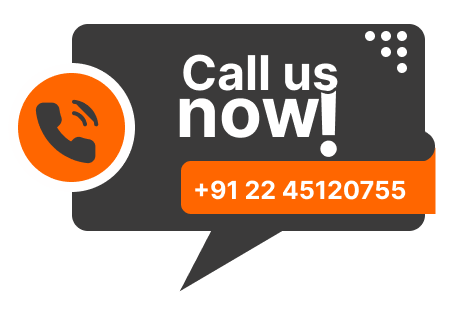
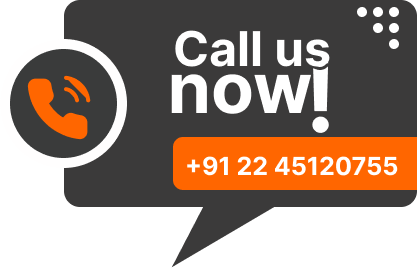
made minor changes

diff --git a/Frontend/src/pages/Faqs.jsx b/Frontend/src/pages/Faqs.jsx
@@ -1,8 +1,14 @@
 import React, { useState } from 'react';
 import { FaChevronDown } from 'react-icons/fa';
 
-const FAQSection = () => {
+const Faqs = () => {
+  const [openCategory, setOpenCategory] = useState(null);
   const [openQuestion, setOpenQuestion] = useState(null);
+
+  const toggleCategory = (category) => {
+    setOpenCategory(openCategory === category ? null : category);
+    setOpenQuestion(null); // Close questions when changing category
+  };
 
   const toggleQuestion = (index) => {
     setOpenQuestion(openQuestion === index ? null : index);
@@ -33,94 +39,53 @@ const FAQSection = () => {
     <div className="max-w-5xl mx-auto p-8 bg-gray-50">
       <h2 className="text-4xl font-bold text-center mb-12 text-orange-600">Frequently Asked Questions</h2>
 
-      {/* Finance Section */}
-      <div>
-        <h3 className="text-3xl font-semibold mb-6 text-gray-700 border-b-4 border-orange-500 pb-2">Finance</h3>
-        {faqData.finance.map((item, index) => (
-          <div key={index} className="mb-6">
-            <button
-              className="w-full flex justify-between items-center text-left text-lg font-medium text-gray-800 p-4 bg-white hover:bg-orange-100 rounded-lg shadow-md focus:outline-none transition-all duration-300 ease-in-out transform hover:scale-105"
-              onClick={() => toggleQuestion(`finance-${index}`)}
-            >
-              {item.question}
-              <FaChevronDown
-                className={`ml-2 transform transition-transform duration-300 ${
-                  openQuestion === `finance-${index}` ? 'rotate-180 text-orange-600' : ''
-                }`}
-              />
-            </button>
-            <div
-              className={`overflow-hidden transition-max-height duration-500 ease-in-out ${
-                openQuestion === `finance-${index}` ? 'max-h-screen' : 'max-h-0'
+      {Object.keys(faqData).map((category) => (
+        <div key={category} className="mb-12">
+          <button
+            className="w-full flex justify-between items-center text-left text-3xl font-semibold text-gray-700 p-4 bg-white hover:bg-orange-100 rounded-lg shadow-md focus:outline-none transition-all duration-300 ease-in-out"
+            onClick={() => toggleCategory(category)}
+          >
+            {category.charAt(0).toUpperCase() + category.slice(1)}
+            <FaChevronDown
+              className={`ml-2 transform transition-transform duration-300 ${
+                openCategory === category ? 'rotate-180 text-orange-600' : ''
               }`}
-            >
-              <p className="mt-4 text-gray-600 text-base bg-white p-4 rounded-lg shadow-inner">
-                {item.answer}
-              </p>
-            </div>
+            />
+          </button>
+          <div
+            className={`overflow-hidden transition-max-height duration-500 ease-in-out ${
+              openCategory === category ? 'max-h-screen' : 'max-h-0'
+            } mt-4`} 
+          >
+            {faqData[category].map((item, index) => (
+              <div key={index} className="mb-6">
+                <button
+                  className="w-full flex justify-between items-center text-left text-lg font-medium text-gray-800 p-4 bg-white hover:bg-orange-100 rounded-lg shadow-md focus:outline-none transition-all duration-300 ease-in-out"
+                  onClick={() => toggleQuestion(index)}
+                >
+                  {item.question}
+                  <FaChevronDown
+                    className={`ml-2 transform transition-transform duration-300 ${
+                      openQuestion === index ? 'rotate-180 text-orange-600' : ''
+                    }`}
+                  />
+                </button>
+                <div
+                  className={`overflow-hidden transition-max-height duration-500 ease-in-out ${
+                    openQuestion === index ? 'max-h-screen' : 'max-h-0'
+                  }`}
+                >
+                  <p className="mt-4 text-gray-600 text-base bg-white p-4 rounded-lg shadow-inner">
+                    {item.answer}
+                  </p>
+                </div>
+              </div>
+            ))}
           </div>
-        ))}
-      </div>
-
-      {/* Insurance Section */}
-      <div className="mt-12">
-        <h3 className="text-3xl font-semibold mb-6 text-gray-700 border-b-4 border-orange-500 pb-2">Insurance</h3>
-        {faqData.insurance.map((item, index) => (
-          <div key={index} className="mb-6">
-            <button
-              className="w-full flex justify-between items-center text-left text-lg font-medium text-gray-800 p-4 bg-white hover:bg-orange-100 rounded-lg shadow-md focus:outline-none transition-all duration-300 ease-in-out transform hover:scale-105"
-              onClick={() => toggleQuestion(`insurance-${index}`)}
-            >
-              {item.question}
-              <FaChevronDown
-                className={`ml-2 transform transition-transform duration-300 ${
-                  openQuestion === `insurance-${index}` ? 'rotate-180 text-orange-600' : ''
-                }`}
-              />
-            </button>
-            <div
-              className={`overflow-hidden transition-max-height duration-500 ease-in-out ${
-                openQuestion === `insurance-${index}` ? 'max-h-screen' : 'max-h-0'
-              }`}
-            >
-              <p className="mt-4 text-gray-600 text-base bg-white p-4 rounded-lg shadow-inner">
-                {item.answer}
-              </p>
-            </div>
-          </div>
-        ))}
-      </div>
-
-      {/* Real Estate Section */}
-      <div className="mt-12">
-        <h3 className="text-3xl font-semibold mb-6 text-gray-700 border-b-4 border-orange-500 pb-2">Real Estate</h3>
-        {faqData.realEstate.map((item, index) => (
-          <div key={index} className="mb-6">
-            <button
-              className="w-full flex justify-between items-center text-left text-lg font-medium text-gray-800 p-4 bg-white hover:bg-orange-100 rounded-lg shadow-md focus:outline-none transition-all duration-300 ease-in-out transform hover:scale-105"
-              onClick={() => toggleQuestion(`realEstate-${index}`)}
-            >
-              {item.question}
-              <FaChevronDown
-                className={`ml-2 transform transition-transform duration-300 ${
-                  openQuestion === `realEstate-${index}` ? 'rotate-180 text-orange-600' : ''
-                }`}
-              />
-            </button>
-            <div
-              className={`overflow-hidden transition-max-height duration-500 ease-in-out ${
-                openQuestion === `realEstate-${index}` ? 'max-h-screen' : 'max-h-0'
-              }`}
-            >
-              <p className="mt-4 text-gray-600 text-base bg-white p-4 rounded-lg shadow-inner">
-                {item.answer}
-              </p>
-            </div>
-          </div>
-        ))}
-      </div>
+        </div>
+      ))}
     </div>
   );
 };
 
-export default FAQSection;
+export default Faqs;

diff --git a/Frontend/src/pages/Testimonial.jsx b/Frontend/src/pages/Testimonial.jsx
@@ -10,19 +10,19 @@ const testimonials = [
     name: 'Sharad Dedhia',
     position: 'Client',
     quote: "“Practice makes the man perfect yes; it is a great line which shows how good they are with their products otherwise I won't have got loan at the age of 65 years on my ITR. Wonderful Product knowledge.”",
-    photo: img1, // Replace with actual image URL
+    photo: img1,
   },
   {
     name: 'Dinesh Suthar',
     position: 'Old Member',
     quote: '“What a doorstep service, even I m staying in Ahmedabad, my loan got sanctioned and disbursed from Mumbai and each time a person was coming to Ahmedabad from Mumbai for paperwork. Such a seriousness on their commitment. Great.”',
-    photo: img2, // Replace with actual image URL
+    photo: img2,
   },
   {
     name: 'Navnath Ghadge',
     position: 'Client',
     quote: '“Good with the services, will rate 5 of 5 but, there is a compulsion of taking the insurance and they say “it is mandatory”. Impress with the work and please make some changes in your policies as very few are only interested in insurance.”',
-    photo: img3, // Replace with actual image URL
+    photo: img3,
   },
 ];
 
@@ -35,16 +35,18 @@ function Testimonial() {
           What Our <br /> Clients Say?
         </h1>
       </div>
-      <div className="md:w-1/2 flex flex-col space-y-6">
-        {testimonials.map((testimonial, index) => (
-          <TestimonialCard
-            key={index}
-            name={testimonial.name}
-            position={testimonial.position}
-            quote={testimonial.quote}
-            photo={testimonial.photo} // Pass the photo prop
-          />
-        ))}
+      <div className="md:w-1/2 h-96 overflow-y-auto custom-scrollbar"> 
+        <div className="flex flex-col space-y-6 p-4">
+          {testimonials.map((testimonial, index) => (
+            <TestimonialCard
+              key={index}
+              name={testimonial.name}
+              position={testimonial.position}
+              quote={testimonial.quote}
+              photo={testimonial.photo}
+            />
+          ))}
+        </div>
       </div>
     </section>
   );

diff --git a/Frontend/src/components/Navbar.jsx b/Frontend/src/components/Navbar.jsx
@@ -45,16 +45,16 @@ function Navbar() {
       <header
         className={`fixed top-0 left-0 w-full z-50 transition-transform duration-300 ${showNavbar ? 'translate-y-0' : '-translate-y-full'}`}
       >
-        <nav className="flex justify-between items-center px-4 md:px-20 w-full shadow-md bg-[rgb(255,102,0)]">
+        <nav className="flex justify-between items-center px-4 md:px-20 w-full shadow-md bg-[rgb(58,59,59)]">
           <div className="brand-logo">
             <a href="#Home">
               <img className="w-20 pt-2" src={brandLogo} alt="Brand Logo" />
             </a>
           </div>
           <div className="flex-1 hidden md:flex justify-center brand-options gap-8 uppercase font-bold">
-            <a href="#Home" className="px-4 py-2 text-gray-800 rounded-full transition-all duration-300 ease-in-out hover:bg-white hover:text-[rgb(255,102,0)]">Home</a>
-            <a href="#About" className="px-4 py-2 text-gray-800 rounded-full transition-all duration-300 ease-in-out hover:bg-white hover:text-[rgb(255,102,0)]">About</a>
-            <a href="#Services" className="px-4 py-2 text-gray-800 rounded-full transition-all duration-300 ease-in-out hover:bg-white hover:text-[rgb(255,102,0)]">Services</a>
+            <a href="#Home" className="px-4 py-2 text-[rgb(255,102,0)] rounded-full transition-all duration-300 ease-in-out hover:bg-white hover:text-[rgb(255,102,0)]">Home</a>
+            <a href="#About" className="px-4 py-2 text-[rgb(255,102,0)] rounded-full transition-all duration-300 ease-in-out hover:bg-white hover:text-[rgb(255,102,0)]">About</a>
+            <a href="#Services" className="px-4 py-2 text-[rgb(255,102,0)] rounded-full transition-all duration-300 ease-in-out hover:bg-white hover:text-[rgb(255,102,0)]">Services</a>
           </div>
           <div className="hidden md:flex items-center gap-4">
             <button 

diff --git a/Frontend/src/pages/AboutUs.jsx b/Frontend/src/pages/AboutUs.jsx
@@ -3,7 +3,7 @@ const WhoWeAre = () => {
     <section className="bg-gradient-to-b from-gray-50 to-gray-100 py-12 px-4 md:px-16">
       <div className="container mx-auto text-center">
         {/* Main heading for SEO */}
-        <h1 className="text-4xl md:text-5xl font-extrabold text-gray-900 mb-6">
+        <h1 className="text-4xl md:text-5xl font-extrabold text-[rgb(255,102,0)] mb-6">
           Who We Are
         </h1>
 
@@ -17,7 +17,7 @@ const WhoWeAre = () => {
         {/* Services section */}
         <div className="grid md:grid-cols-2 gap-8">
           <article className="bg-white shadow-lg p-6 rounded-lg transition-transform transform hover:scale-105">
-            <h2 className="text-xl font-semibold text-blue-800 mb-4">
+            <h2 className="text-xl font-semibold text-[rgb(58,59,59)] mb-4">
               Comprehensive Financial Solutions
             </h2>
             <p className="text-gray-600">
@@ -27,7 +27,7 @@ const WhoWeAre = () => {
           </article>
 
           <article className="bg-white shadow-lg p-6 rounded-lg transition-transform transform hover:scale-105">
-            <h2 className="text-xl font-semibold text-green-800 mb-4">
+            <h2 className="text-xl font-semibold text-[rgb(58,59,59)] mb-4">
               Strategic Real Estate Advisory
             </h2>
             <p className="text-gray-600">
@@ -39,7 +39,7 @@ const WhoWeAre = () => {
 
         {/* Our Commitment Section */}
         <div className="mt-12">
-          <h2 className="text-3xl font-bold text-gray-800 mb-6">
+          <h2 className="text-3xl font-bold text-[rgb(255,102,0)] mb-6">
             Our Commitment
           </h2>
           <p className="text-lg text-gray-700 max-w-2xl mx-auto leading-relaxed">

diff --git a/Frontend/src/pages/Partners.jsx b/Frontend/src/pages/Partners.jsx
@@ -50,8 +50,8 @@ const PartnerSection = () => {
   };
 
   return (
-    <div className="bg-white py-8 overflow-hidden">
-      <h2 className="text-4xl font-bold text-center text-gray-700 mb-6">Our Partners</h2>
+    <div className="bg-white py-8 overflow-hidden flex flex-col justify-center items-center">
+      <h2 className="text-4xl font-bold text-center px-10 py-2 text-gray-700 rounded-full bg-[rgb(255,102,0)] mb-6">Our Partners</h2>
 
       {/* First Marquee Line */}
       <div className="relative overflow-hidden mb-6">
@@ -61,7 +61,7 @@ const PartnerSection = () => {
               key={index}
               src={logo}
               alt={`Partner ${index + 1}`}
-              className="inline-block mx-4 h-16 border border-black" // Add border here if needed
+              className="inline-block mx-4 h-16" 
             />
           ))}
         </div>
@@ -75,7 +75,7 @@ const PartnerSection = () => {
               key={index}
               src={logo}
               alt={`Partner ${index + partnersLine1.length + 1}`}
-              className="inline-block mx-4 h-16 border border-black" // Add border here if needed
+              className="inline-block mx-4 h-16 " 
             />
           ))}
         </div>

diff --git a/Frontend/src/pages/Clientals.jsx b/Frontend/src/pages/Clientals.jsx
@@ -36,8 +36,8 @@ const ClientalsSection = () => {
   ];
 
   return (
-    <div className="bg-white py-8">
-      <h2 className="text-4xl font-bold text-center text-gray-700 mb-6">Clientele</h2>
+    <div className="bg-white py-8 flex justify-center items-center flex-col">
+      <h2 className="text-4xl font-bold text-center px-10 py-2 text-gray-700 rounded-full bg-[rgb(255,102,0)] mb-6">Clientele</h2>
 
       {/* First Marquee */}
       <div className="relative overflow-hidden">
